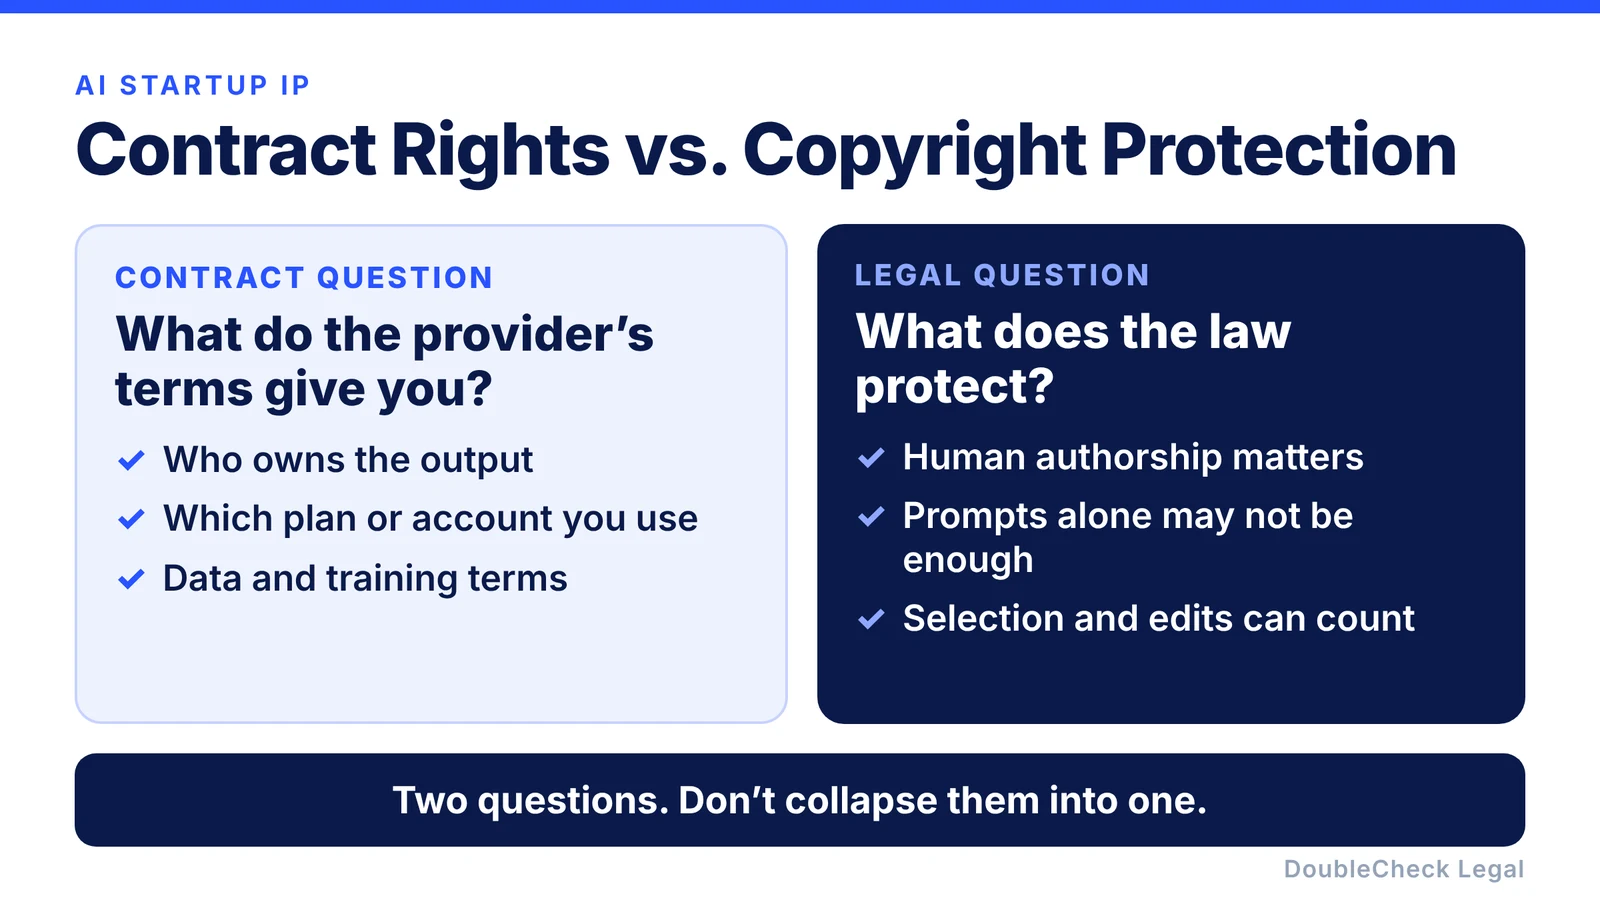
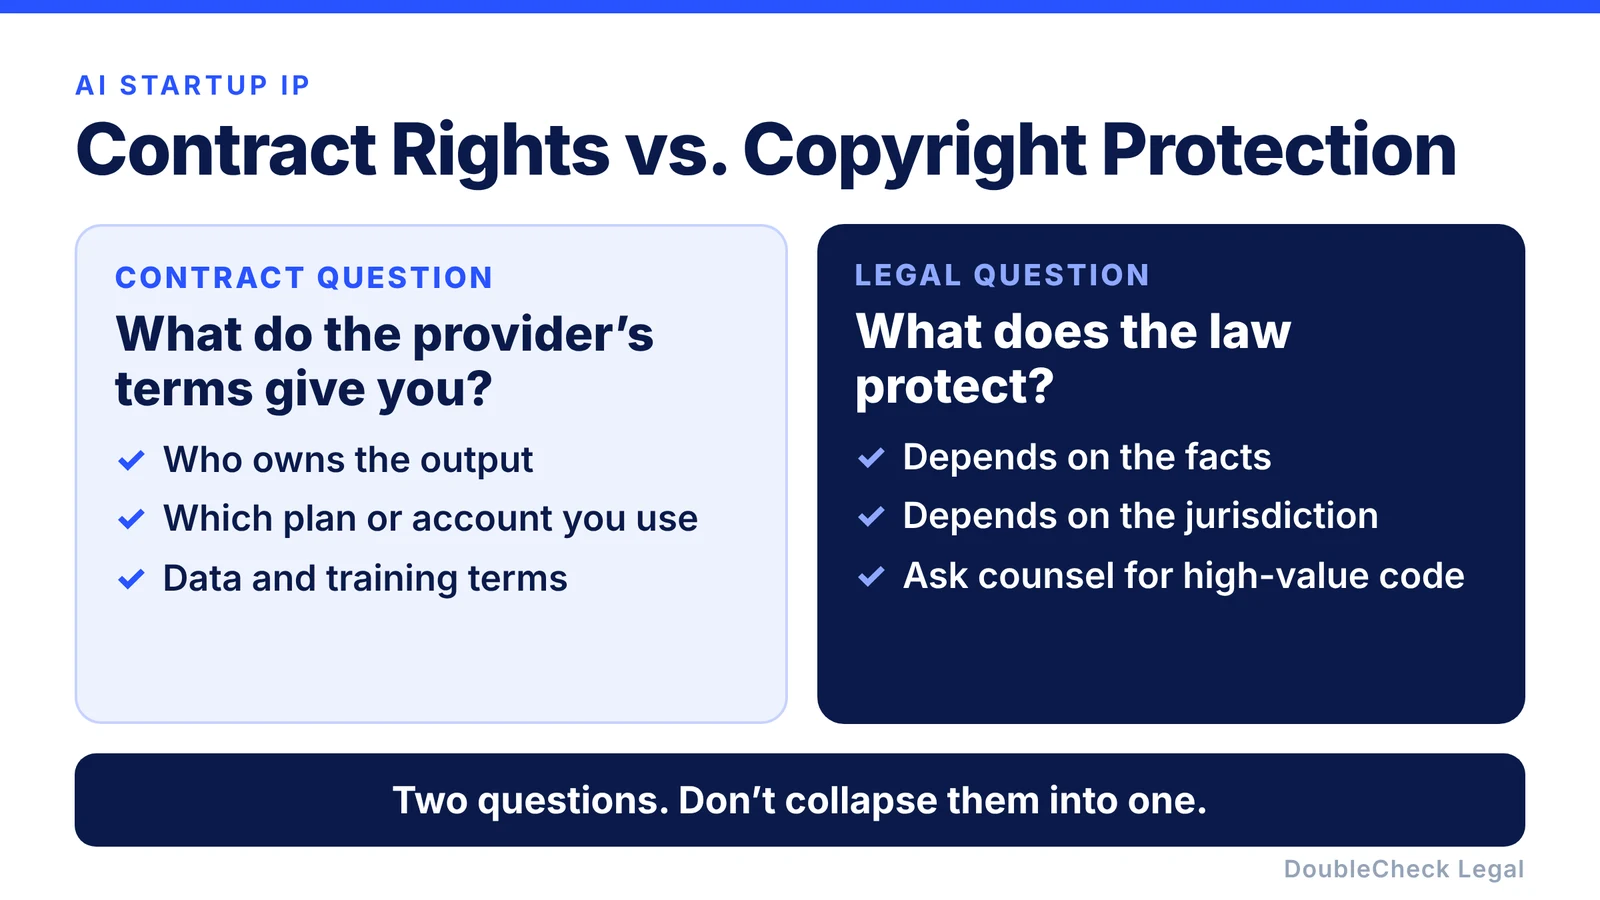
Remove unverified claims from founder articles and reframe affected sections
Claude-Session: https://claude.ai/code/session_011hUP9944aQyqq8S34T2bT9

Changed region(s): [[0.5312, 0.56, 0.9375, 0.7156], [0.5625, 0.4978, 0.875, 0.5289]]

diff --git a/src/content/blog/ai-generated-code-ip-startup-founders.md b/src/content/blog/ai-generated-code-ip-startup-founders.md
@@ -5,10 +5,10 @@ description: 'Building with ChatGPT, Claude, Cursor, or coding agents? What foun
 pubDate: 'Oct 16 2026'
 authorName: 'Patrick Moumiet'
 faq:
-  - question: 'Who owns code generated by ChatGPT?'
-    answer: "OpenAI's terms of use state that, as between the user and OpenAI and to the extent permitted by law, the user owns the output and OpenAI assigns any rights it has in that output. Other intellectual-property questions may still remain, and terms differ by product and plan, so check the current terms for your account."
+  - question: 'Who owns code generated by an AI tool?'
+    answer: "It depends on the terms for the specific product and plan you use, plus other factors such as human authorship and any third-party material. Check the current terms for your account, and ask a professional for anything high-value."
   - question: 'Is AI-generated code automatically copyrighted?'
-    answer: 'Not necessarily. U.S. copyright analysis depends on human authorship, and the Copyright Office has concluded that prompts alone do not automatically establish copyright in purely AI-generated material.'
+    answer: 'Not necessarily. Copyright treatment of AI-assisted work is an evolving area and depends on the facts and the jurisdiction, so for core code ask an IP attorney.'
   - question: 'Can AI-generated code contain open-source or third-party material?'
     answer: 'AI-generated output can raise questions involving third-party rights or similarity. Businesses should still review dependencies, licenses, and high-value generated code.'
   - question: 'Should my startup track which AI tools developers use?'
@@ -22,8 +22,8 @@ toc:
     anchor: '1-start-with-who-built-the-product'
   - label: '2. Provider terms'
     anchor: '2-check-the-ai-providers-terms'
-  - label: '3. Contract vs. copyright'
-    anchor: '3-ownership-under-a-contract-is-not-identical-to-copyrightability'
+  - label: '3. Contract vs. law'
+    anchor: '3-contract-rights-and-legal-protection-are-separate-questions'
   - label: '4. Third-party issues'
     anchor: '4-ai-generated-code-can-still-create-third-party-issues'
   - label: '5. Confidentiality'
@@ -43,7 +43,7 @@ toc:
 **Key takeaways:**
 
 - There is no one-line answer. Ownership depends on human authorship, your AI provider's terms, your founder and contractor agreements, third-party and open-source code, and copyright law.
-- A contract with an AI provider is not the same as copyright protection. Treat them as two separate questions.
+- A contract with an AI provider is not the same as legal protection for the code. Treat them as two separate questions.
 - AI tools do not fix missing IP assignments from founders, employees, and contractors.
 - A simple internal AI development policy makes later fundraising or diligence much easier.
 
@@ -79,28 +79,31 @@ If the company is supposed to own the technology, make sure the agreements and I
 
 ## 2. Check the AI provider's terms
 
-Different AI services operate under different contracts. For example, OpenAI's [terms of use](https://openai.com/policies/terms-of-use/) state that, as between the user and OpenAI and to the extent permitted by law, the user owns the output and OpenAI assigns any rights it has in the output. The terms also note that outputs may not be unique.
+Different AI services operate under different contracts, and terms can vary by product and plan. Read the terms for the tool and account type you actually use, and look for:
 
-That second point matters. A vendor saying "you own the output" does not necessarily mean "no one else can ever receive something similar." Nor does a contract with an AI provider automatically settle whether a particular output qualifies for copyright protection under applicable law.
+- who owns the output,
+- whether your inputs can be used to train models,
+- how consumer terms differ from business terms,
+- and what the provider says about similar outputs for other users.
 
-Always check the current terms of the specific product and account type you actually use.
+Terms change, so check the current version and keep a copy of what applied when your code was written.
 
-## 3. Ownership under a contract is not identical to copyrightability
+## 3. Contract rights and legal protection are separate questions
 
-This distinction is important. The U.S. Copyright Office has concluded, in its [report on copyrightability](https://www.copyright.gov/ai/), that generative-AI outputs can receive copyright protection where there is sufficient **human authorship**, but that merely entering prompts is not by itself enough to make purely AI-generated expressive material copyrightable. Human selection, arrangement, modification, or other authorship can matter.
+This distinction is important. What your AI provider's contract says is one question. What legal protection exists in the resulting work is another, and the law around AI-assisted work is still developing.
 
 For a startup, that means two separate questions:
 
 - **What rights does my AI provider give me contractually?**
-- **What intellectual-property protection exists in the resulting work under law?**
+- **What intellectual-property protection exists in the resulting work under applicable law?**
 
-Do not collapse them into one question.
+Do not collapse them into one question, and ask counsel about anything core to your company's value.
 
-![Contract rights vs. copyright protection: a contract question about what the provider's terms give you, and a legal question about what the law protects](/images/ai-generated-code-ip-startup-founders/contract-vs-copyright.webp)
+![Contract rights vs. legal protection: a contract question about what the provider's terms give you, and a legal question about what the law protects](/images/ai-generated-code-ip-startup-founders/contract-vs-copyright.webp)
 
 ## 4. AI-generated code can still create third-party issues
 
-Even if your provider assigns its rights in an output, founders should still think about:
+Even if your provider's terms favor you, founders should still think about:
 
 - open-source code,
 - license obligations,
@@ -113,7 +116,7 @@ That does not mean every similar code pattern is infringement. It means high-val
 
 ## 5. Do not paste confidential company information everywhere
 
-Ownership is not the only concern. Before sending proprietary source code, customer data, trade secrets, or unreleased technology to an AI system, understand the product's privacy and data-use terms. Business products may have different data commitments from consumer accounts. For example, OpenAI states that [ChatGPT Business workspace data is excluded from training by default](https://help.openai.com/en/articles/8798634-managing-data-sharing-and-privacy-in-chatgpt-business).
+Ownership is not the only concern. Before sending proprietary source code, customer data, trade secrets, or unreleased technology to an AI system, read the product's privacy and data-use terms. Business and consumer accounts can come with different data commitments.
 
 The general rule for founders:
 
@@ -163,13 +166,13 @@ Then the platform can connect every conclusion to the underlying source, instead
 
 ## FAQ
 
-**Who owns code generated by ChatGPT?**
+**Who owns code generated by an AI tool?**
 
-OpenAI's terms of use state that, as between the user and OpenAI and to the extent permitted by law, the user owns the output and OpenAI assigns any rights it has in that output. Other intellectual-property questions may still remain, and terms differ by product and plan, so check the current terms for your account.
+It depends on the terms for the specific product and plan you use, plus other factors such as human authorship and any third-party material. Check the current terms for your account, and ask a professional for anything high-value.
 
 **Is AI-generated code automatically copyrighted?**
 
-Not necessarily. U.S. copyright analysis depends on human authorship, and the Copyright Office has concluded that prompts alone do not automatically establish copyright in purely AI-generated material.
+Not necessarily. Copyright treatment of AI-assisted work is an evolving area and depends on the facts and the jurisdiction, so for core code ask an IP attorney.
 
 **Can AI-generated code contain open-source or third-party material?**
 

diff --git a/src/content/blog/safe-agreement-startup-founders.md b/src/content/blog/safe-agreement-startup-founders.md
@@ -7,12 +7,8 @@ authorName: 'Patrick Moumiet'
 faq:
   - question: 'What does SAFE stand for?'
     answer: 'SAFE means Simple Agreement for Future Equity.'
-  - question: 'Is a SAFE a loan?'
-    answer: 'A standard SAFE is generally described as not being debt: it does not carry interest or a maturity date the way a convertible note typically does. Always confirm against the exact document you are signing.'
   - question: 'Does a SAFE give the investor shares immediately?'
     answer: 'No. Under the standard SAFE structure, the investor receives contractual rights that can later convert into shares upon specified events.'
-  - question: 'What is a post-money SAFE?'
-    answer: 'A post-money SAFE expresses the valuation cap on a post-money basis, which means the cap includes the SAFEs themselves. Y Combinator has used post-money SAFEs as its standard form since 2018.'
   - question: 'Can AI review a SAFE?'
     answer: 'AI can explain clauses, compare the SAFE with public templates, identify modifications, and help model scenarios. Important financing decisions should still receive appropriate verification.'
   - question: 'What should founders check most carefully?'
@@ -22,16 +18,14 @@ toc:
     anchor: 'what-should-a-founder-understand-before-signing-a-safe'
   - label: 'Valuation cap'
     anchor: 'what-is-a-valuation-cap'
-  - label: 'SAFE vs. note'
-    anchor: 'safe-vs-convertible-note'
   - label: 'Prompting AI'
     anchor: 'do-not-only-ask-ai-to-review-my-safe'
   - label: 'Base form'
     anchor: 'compare-the-document-against-the-source-template'
   - label: 'Dilution'
     anchor: 'watch-cumulative-dilution'
-  - label: 'Approvals'
-    anchor: 'approvals-and-paperwork-also-matter'
+  - label: 'Records'
+    anchor: 'look-beyond-the-document'
   - label: 'Using DoubleCheck'
     anchor: 'how-doublecheck-could-make-safe-review-easier'
   - label: 'FAQ'
@@ -71,19 +65,13 @@ This is where founders can get into trouble. A single SAFE may look manageable. 
 
 ## What is a valuation cap?
 
-A valuation cap sets a valuation used to determine the conversion economics when the SAFE converts. Under a post-money SAFE, the ownership an investment represents can be understood in relation to the investment amount and the post-money valuation cap.
+A valuation cap is a term that sets a valuation used when working out how a SAFE converts into shares. The exact mechanics depend on the SAFE form and the wording in your document, so ask AI to point to the exact language rather than summarize it from memory.
 
 For founders, the practical question is:
 
 > How much of the company am I effectively promising across all of these instruments?
 
 That matters more than simply asking whether the document is "standard."
-
-## SAFE vs. convertible note
-
-A SAFE and a convertible note are not the same instrument. A standard SAFE is generally described as neither debt nor stock before it converts: it has no interest and no maturity date. A convertible note is debt and generally has interest and a maturity date. That distinction is useful for founders who hear the terms used interchangeably.
-
-![SAFE vs. convertible note: a standard SAFE has no interest and no maturity date, while a convertible note is debt that usually has interest and a maturity date](/images/safe-agreement-startup-founders/safe-vs-convertible-note.webp)
 
 ## Do not only ask AI to "review my SAFE"
 
@@ -122,16 +110,19 @@ A common founder mistake is reviewing each SAFE individually. The more useful qu
 
 Even standardized instruments can produce an outcome a founder did not expect if enough capital is raised through them. AI can help build an ownership model, but calculations should be checked carefully before you rely on them.
 
-## Approvals and paperwork also matter
+![Review every SAFE together: SAFE number one, SAFE number two, further SAFEs added over several months, and what you own when they all convert](/images/safe-agreement-startup-founders/all-safes-together.webp)
 
-Issuing a SAFE is a corporate action, so the financing workflow is larger than filling out the document. Depending on your company's documents and counsel's advice, it can involve board approval and other steps, such as:
+## Look beyond the document
 
-- approval steps,
+A SAFE is more than a signed PDF. Keep your records straight, because the financing involves more than filling out the form:
+
 - signatures,
 - cap-table updates,
 - side letters,
 - investor records,
 - and later conversion mechanics.
+
+If you are unsure which approvals or filings your company needs, ask your attorney rather than relying on a general answer.
 
 ## How DoubleCheck could make SAFE review easier
 
@@ -144,7 +135,7 @@ A normal chatbot can explain a SAFE. [DoubleCheck](https://www.contactdoublechec
 - **Pro rata side letter:** present
 - **Base form comparison:** 2 modifications detected
 - **Potential dilution:** run scenario
-- **Board approval:** verify
+- **Records and signatures:** verify
 
 Then each item can connect back to the actual document and supporting source. That is much more useful than a long paragraph saying, "This appears to be a fairly standard SAFE." If something deserves deeper judgment, founders can add human review or speak with an attorney.
 
@@ -154,17 +145,9 @@ Then each item can connect back to the actual document and supporting source. Th
 
 SAFE means Simple Agreement for Future Equity.
 
-**Is a SAFE a loan?**
-
-A standard SAFE is generally described as not being debt: it does not carry interest or a maturity date the way a convertible note typically does. Always confirm against the exact document you are signing.
-
 **Does a SAFE give the investor shares immediately?**
 
 No. Under the standard SAFE structure, the investor receives contractual rights that can later convert into shares upon specified events.
-
-**What is a post-money SAFE?**
-
-A post-money SAFE expresses the valuation cap on a post-money basis, which means the cap includes the SAFEs themselves. Y Combinator has used post-money SAFEs as its standard form since 2018.
 
 **Can AI review a SAFE?**
 

diff --git a/src/content/blog/83b-election-startup-founders.md b/src/content/blog/83b-election-startup-founders.md
@@ -47,7 +47,7 @@ For first-time founders, this can be confusing, because an **83(b) election is n
 
 Very broadly, Section 83 of the Internal Revenue Code addresses when property received in connection with services becomes taxable. An 83(b) election allows an eligible recipient to elect to include the relevant value in income at the time of transfer, rather than waiting until the property later becomes substantially vested.
 
-The actual tax consequences depend on the facts, so founders should not assume that filing is automatically beneficial in every situation. For startup founders receiving restricted stock at a very early stage, the election often comes up because the company's shares may initially have a relatively low value while being subject to vesting. You can read the statute itself at [26 U.S.C. § 83](https://www.law.cornell.edu/uscode/text/26/83).
+The actual tax consequences depend on the facts, so founders should not assume that filing is automatically beneficial in every situation. For startup founders receiving restricted stock at a very early stage, the election often comes up because the company's shares may initially have a relatively low value while being subject to vesting.
 
 ## Why founders should care about the 30-day clock
 
@@ -71,7 +71,7 @@ Before treating an AI-generated answer as definitive, confirm basic facts such a
 - Has the 30-day window begun?
 - Does an 83(b) election actually apply to the equity you received?
 
-The election generally involves information such as your identity, a description of the property, the transfer date, the restrictions, the fair market value, and the amount you paid. IRS [Publication 525](https://www.irs.gov/publications/p525) discusses the topic.
+The election is made in writing, so use the IRS form or ask your tax advisor what to include rather than assembling it from memory.
 
 ![What to double-check first: type of equity, transfer date, vesting or forfeiture, price paid, fair market value, whether the 30 days have started, and whether 83(b) applies](/images/83b-election-startup-founders/what-to-double-check.webp)
 
